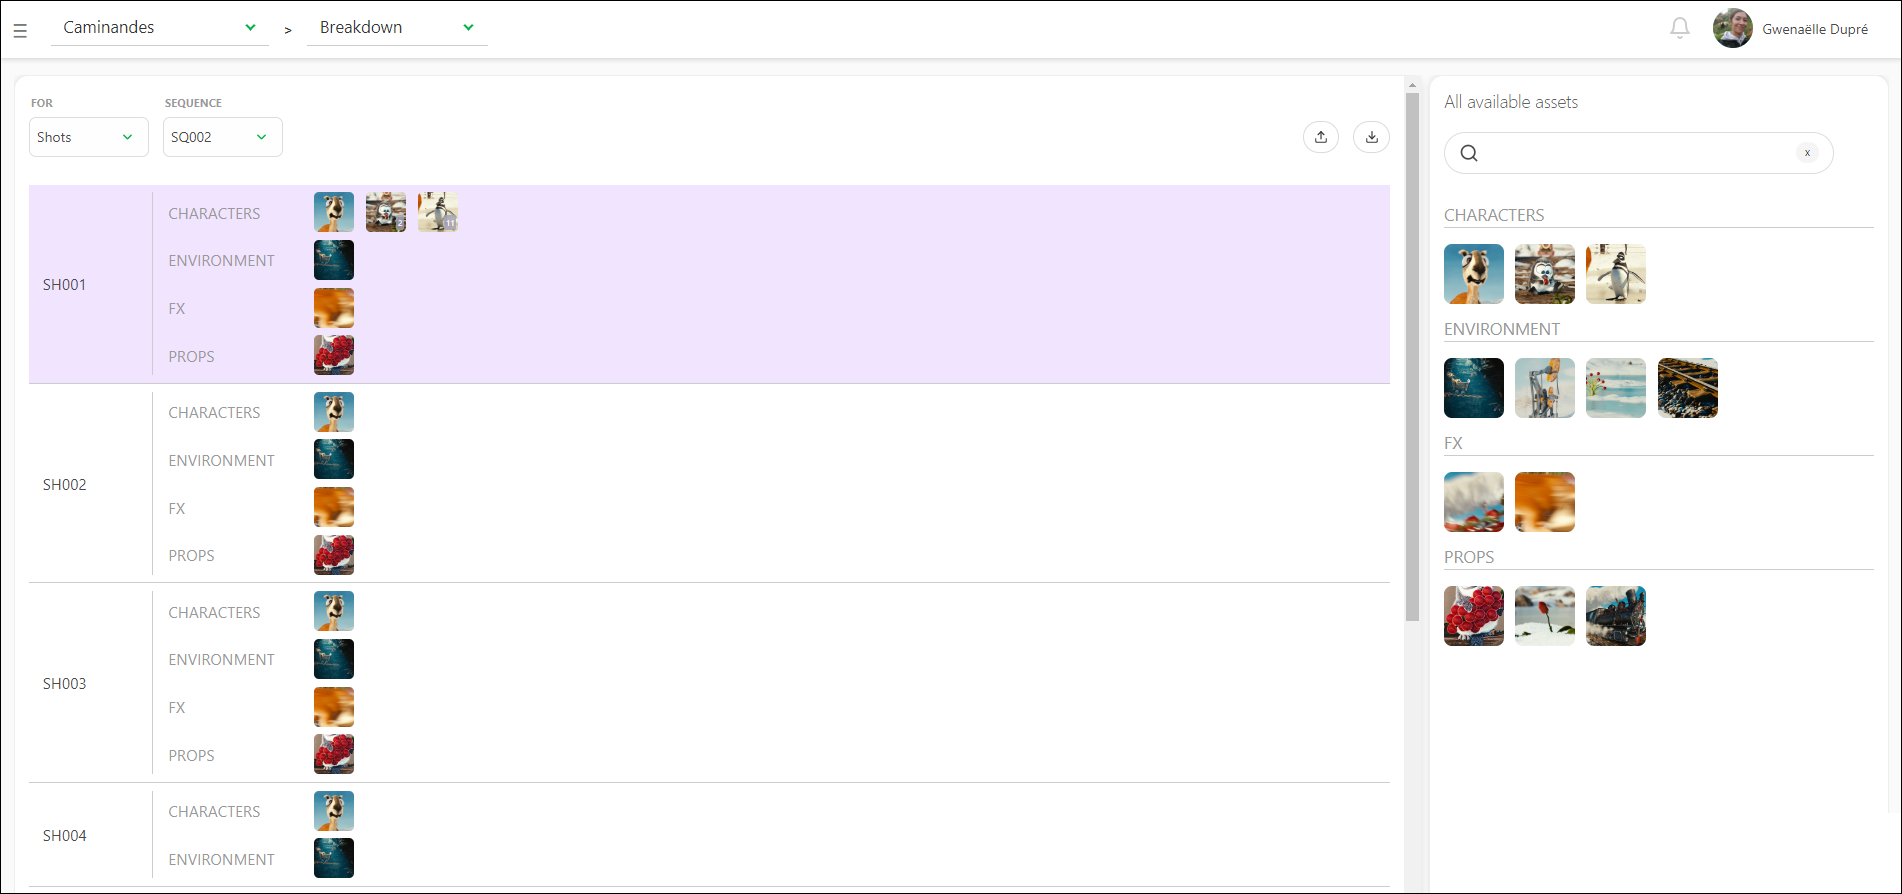
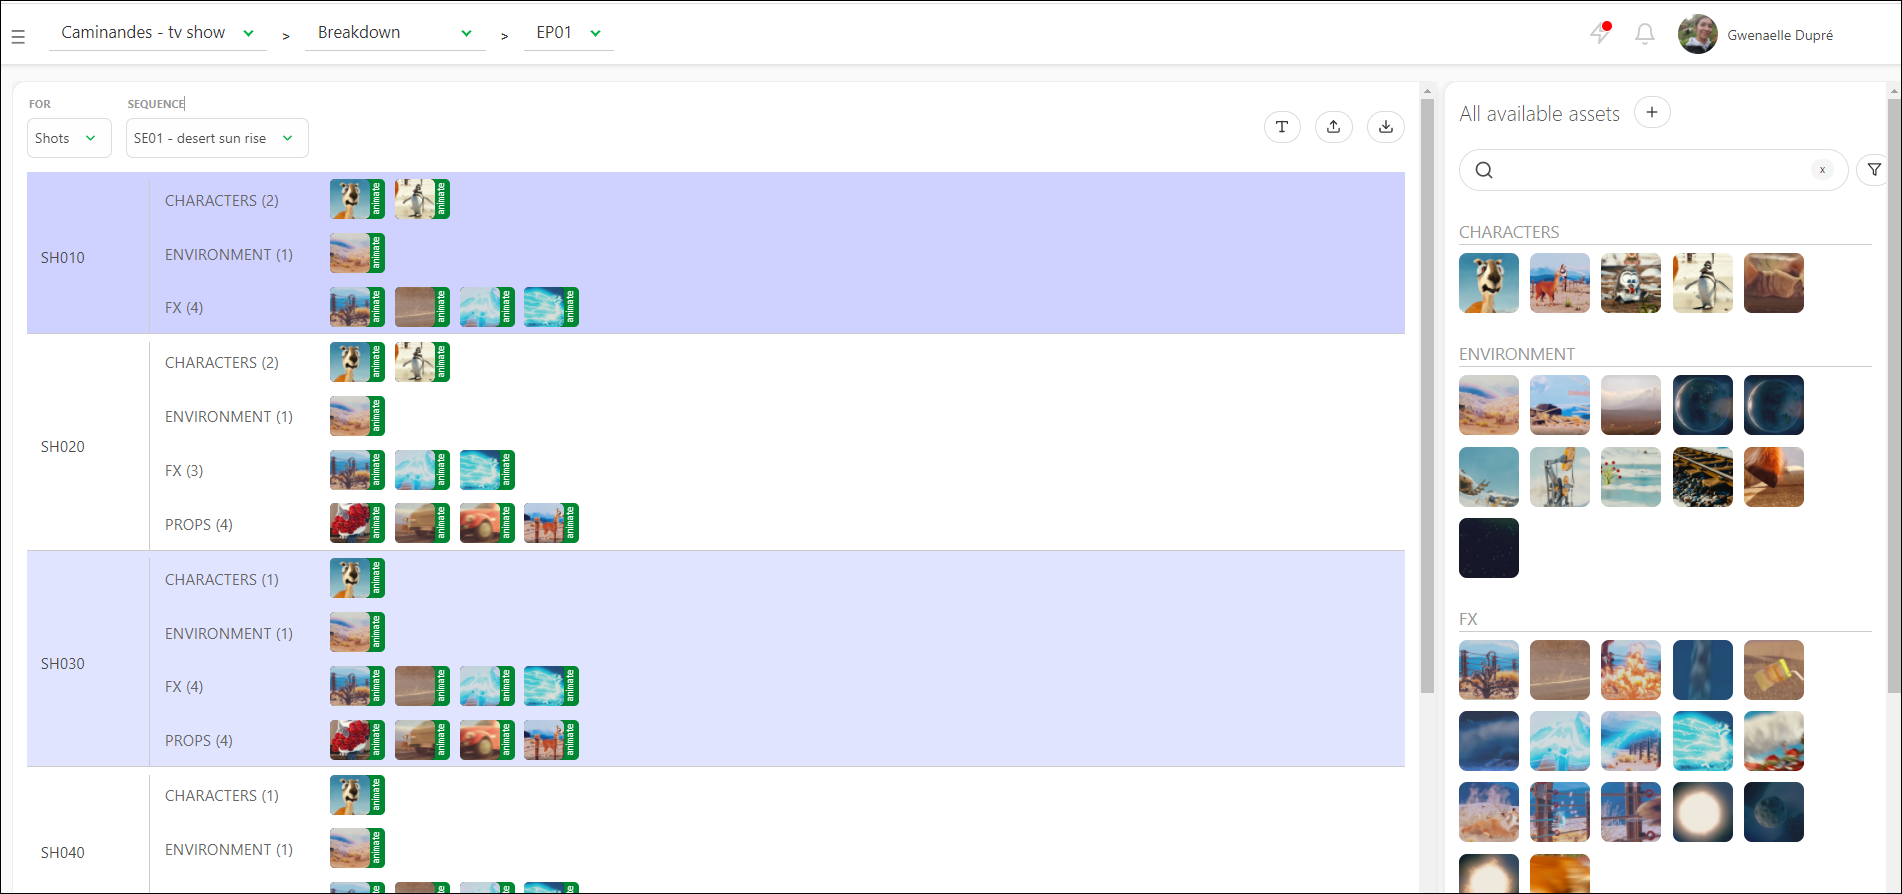
getting started breakdown

diff --git a/docs/getting-started-production/README.md b/docs/getting-started-production/README.md
@@ -353,12 +353,26 @@ On the drop-down menu, choose **BREAKDOWN**.
 
 On the left part of the breakdown page is the episode/sequence/shot menu (1),
 you can choose between the ones you have created. They are the right part of
-the screen; all the assets available created for this production (3). Moreover, in
+the screen; all the assets available created for this production (main pack and episodes) (3). Moreover, in
 the middle section, it is your selection for the shot (2).
 
 ![Breakdown page](../img/getting-started/breakdown_general_empty.png)
 
-So now you have to select the shot you want to cast. You can also choose multiple shots at the same time. Click on the first shot, hold the **shift** key and click on the last shot of your selection.
+So now you have to select the shot you want to cast.
+
+If you don't have thumbnails yet, you can choose to display the assets as text.
+
+
+![Breakdown page text display](../img/getting-started/breakdown_text_display.png)
+
+You may also realize during your breakdown that an asset is missing on the list.
+
+You can create a new asset directly from the breakdown page. Click on the **+** on the right of the **All available assets**.
+
+![Breakdown page create asset](../img/getting-started/breakdown_create_asset.png)
+
+
+You can also choose multiple shots at the same time. Click on the first shot, hold the **shift** key and click on the last shot of your selection.
 
 ![Breakdown page global bulk select](../img/getting-started/breakdown_general_bulk_select.png)
 
@@ -1041,6 +1055,27 @@ automatically saved.
 
 ## Validate with a playlist
 
+Once you have created a playlist; you have several options:
+
+
+![Playlist Global](../img/getting-started/playlist_global.png)
+
+1/ Navigate from element to element
+2/ you can see the position of the selected element compare to the total number of elements
+3/ Play or Pause
+4/ You can change the speed, full speed (x1), half of the speed (x0.50) or quarter of the speed (x0.25)
+5/ Loop on one element
+6/ TC of the element compare to the TC of the whole playlist
+7/ Number of frame
+8/ Navigate frame per frame on the preview. You can also do it with the arrow on the Keyboard
+9/ Compare tool
+10/ Undo and Redo option for the drawing comment
+11/ Text and drawing option, and delete selection
+12/ Change the task type of all the element of the playlist
+13/ Display the comment section
+14/ Hide the elements of the playlist
+15/ Download the playlist, as a **Zip** files with all the separated elements, or **Build .mp4** to create the whole movie (only for shots)
+16/ Fullscreen
 
 
 
@@ -1072,9 +1107,9 @@ You can see the drawing comment on the video (the red dot below the timeline).
 
 ![Playlist comment](../img/getting-started/playlist_comment.png)
 
-You can draw or type on the video (same than for the shot review), with the **draw** button ![draw button](../img/getting-started/draw.png)
+You can draw or type on the video (same than [Perform a review](./#perform-a-review)), with the **draw** button ![draw button](../img/getting-started/draw.png)
 
-[Perform a review](./getting-started-production/#perform-a-review)
+[Perform a review](./#perform-a-review)
 
 
 ## Simplify the global page
